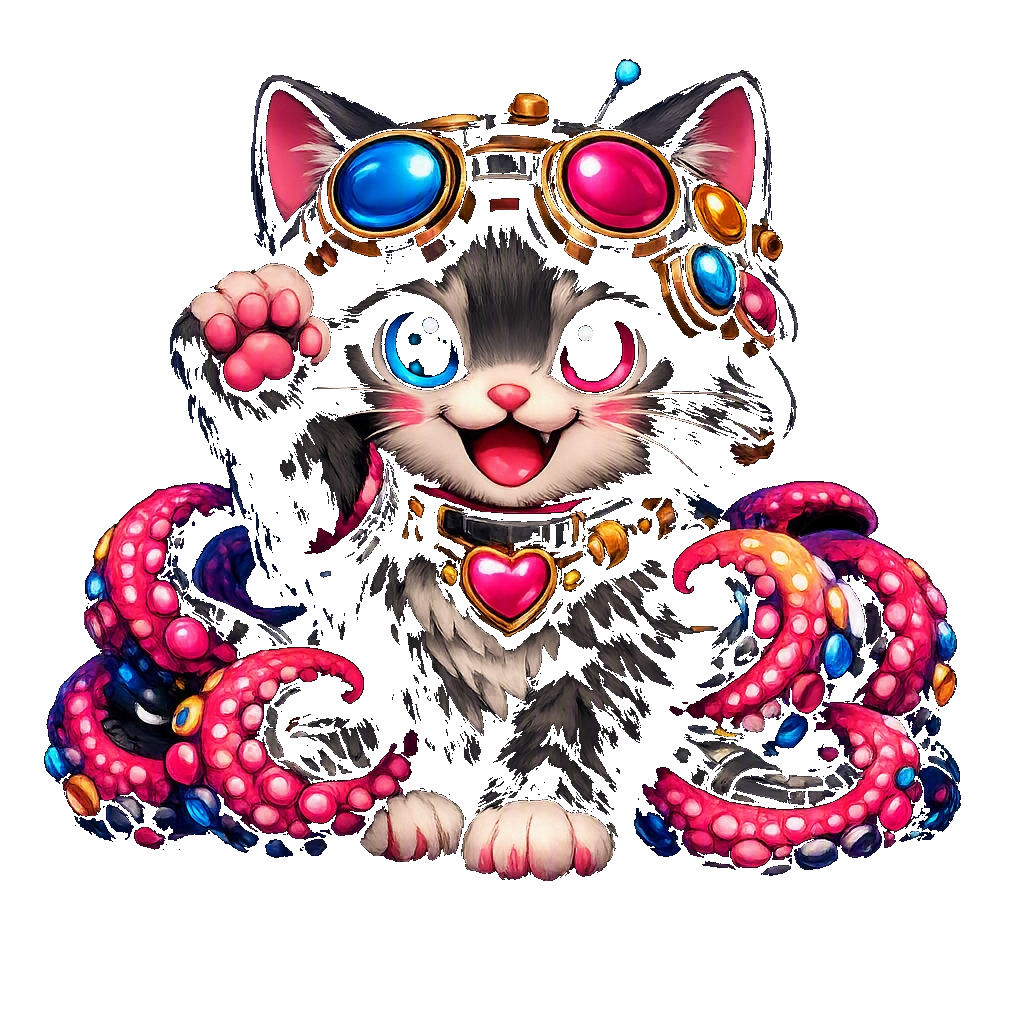
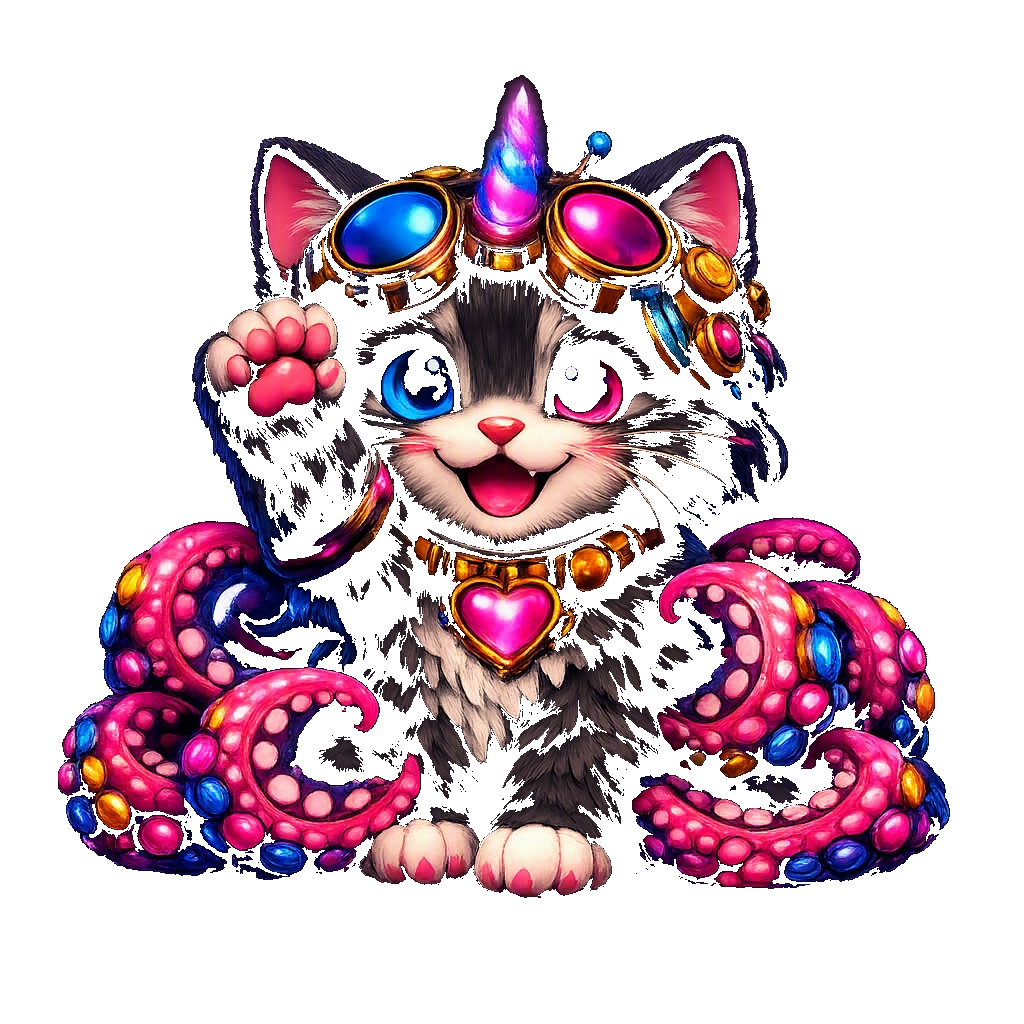
Use laser unicorn mascot image

diff --git a/src/scenes/BootScene.js b/src/scenes/BootScene.js
@@ -102,7 +102,7 @@ export default class BootScene extends Phaser.Scene {
         this.load.image('nyx_merchant', 'nyx_merchant.png?v=6');
         this.load.image('scrap_merchant', 'scrap_merchant.png?v=6');
         this.load.image('title_bg',     'title_bg_v3.jpg?v=6');
-        this.load.image('mascot_center','mascot_center.png?v=12');
+        this.load.image('mascot_center','mascot_center.png?v=13');
         this.load.image('title_logo',   'title_logo_v2.png?v=7');
         this.load.image('deco_planet',  'deco_planet.jpg?v=6');
         this.load.image('bg',           'bg.jpg?v=6');
